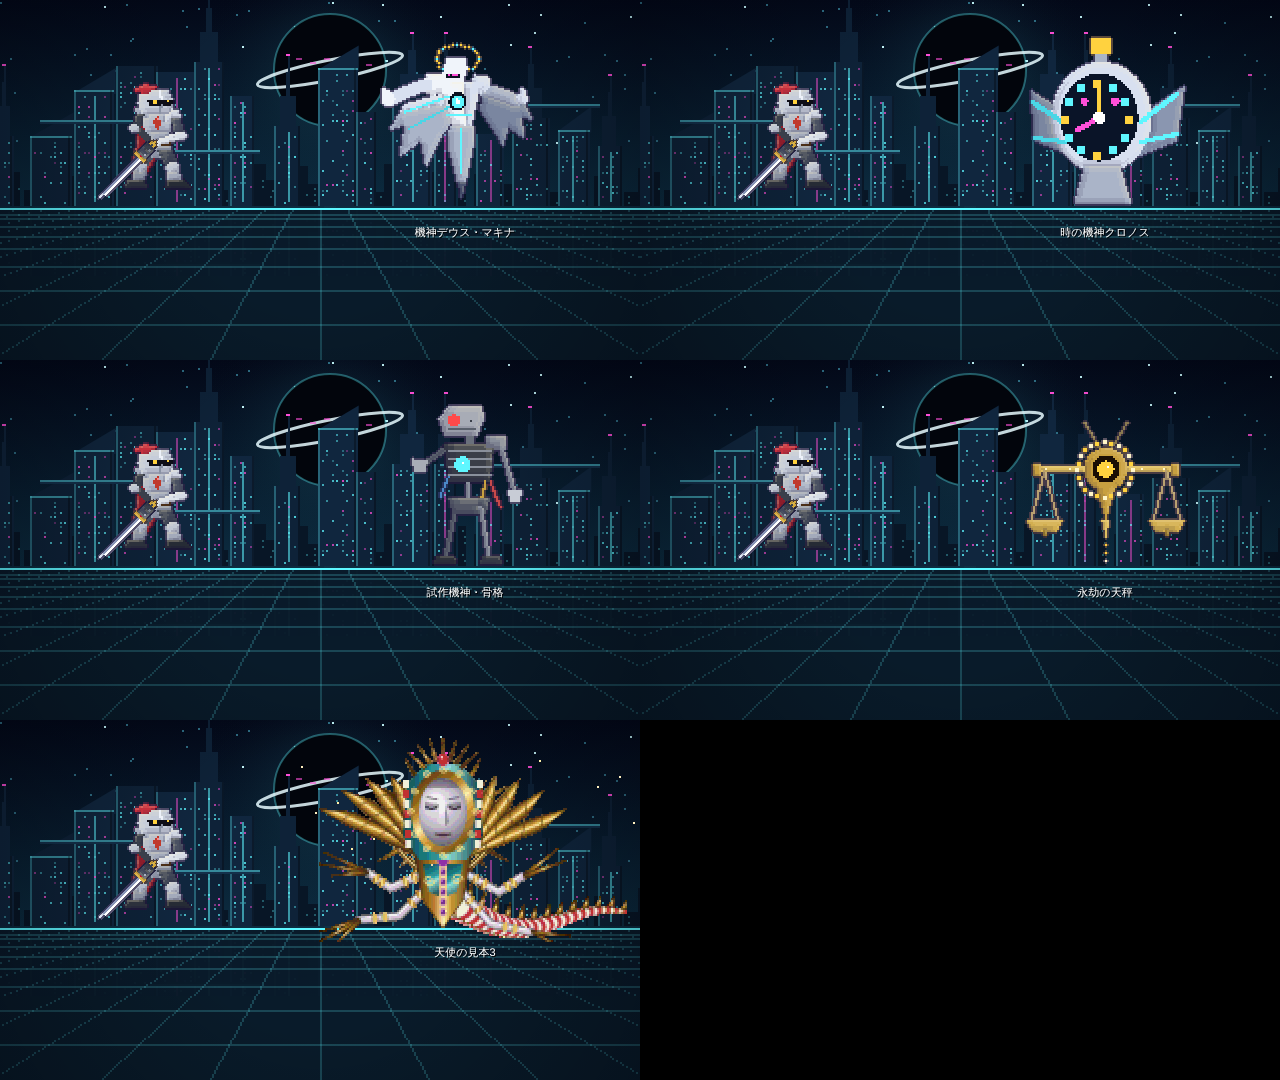
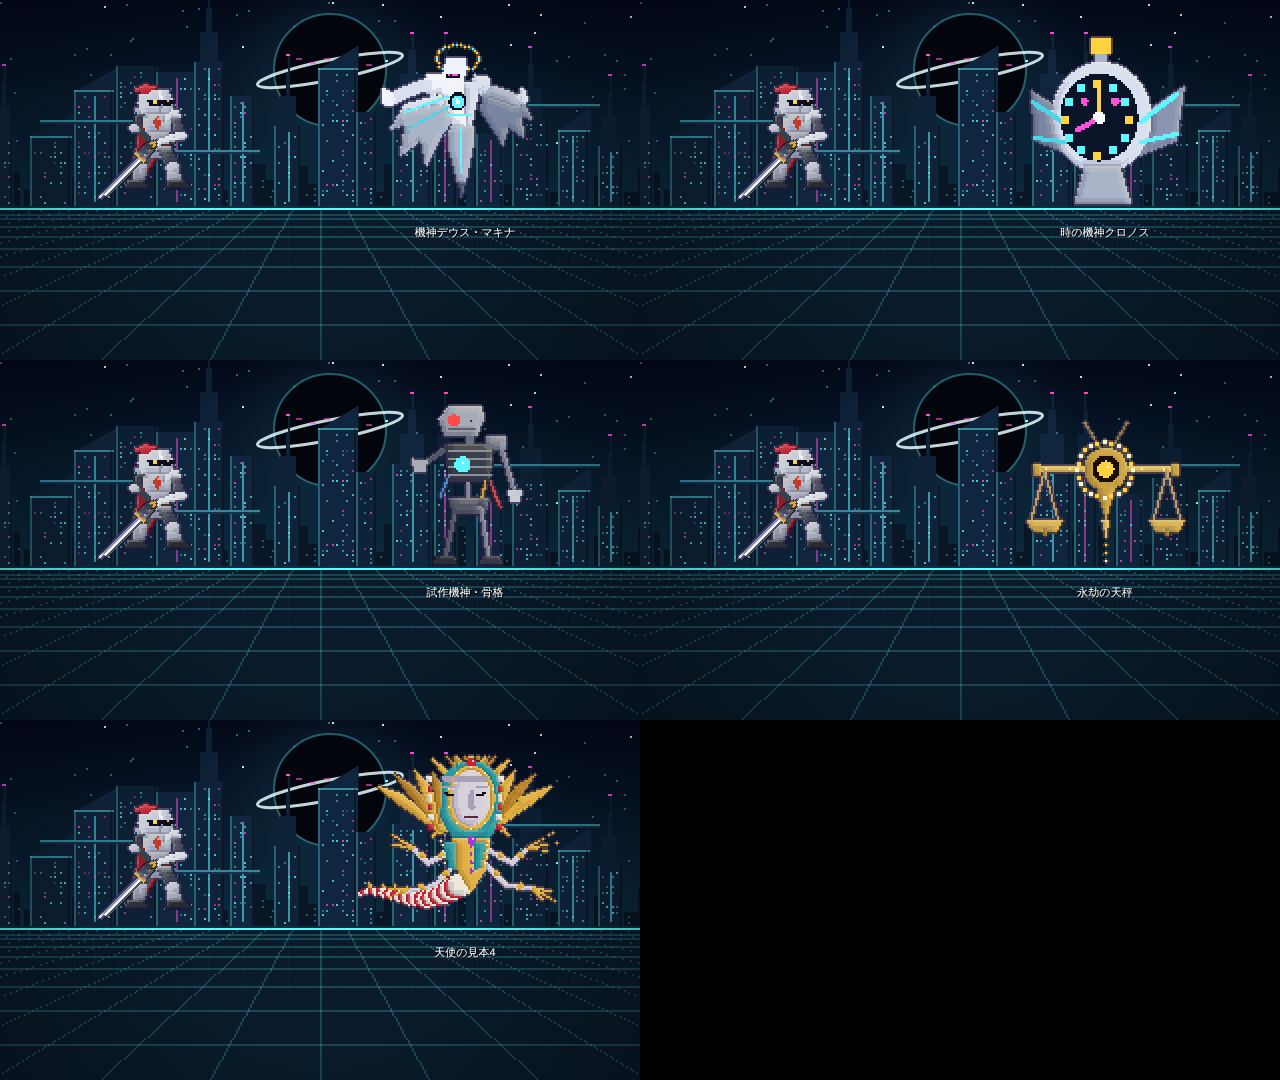
天使のボスの見本4（敵と同じ paint の陰影で描き直し・未追加）
Claude-Session: https://claude.ai/code/session_01WH54oTBmGpABUf9mvatrvJ

Changed region(s): [[0.25, 0.6722, 0.5, 0.8861], [0.25, 0.8556, 0.2812, 0.8861]]

diff --git a/dev/mock/angel4.js b/dev/mock/angel4.js
@@ -1,0 +1,35 @@
+// 天使のボスの見本4（追加しない）：見本3のデザインを、敵と同じ paint（平たい色＋自動の3段陰影と輪郭）で描いたもの
+function angelBoss4(){const GL='#e0b040',GD='#b88428',GH='#fff0a0',TE='#2a9aa0',TD='#1a6a74',SK='#d6d0dc',SKD='#a8a0b4',RD='#c02838',WH='#ece6dc',DK='#140c1c',PU='#a03ac8';
+const im=paint(76,64,({r,p,q,l,t,e,m,sh})=>{const X=36;
+ // とげの光輪（後ろ）
+ for(let k=0;k<16;k++){const a=k/16*6.283,r1=12,r2=k%2?17:21;t([[X+Math.cos(a-.12)*r1,15+Math.sin(a-.12)*r1],[X+Math.cos(a)*r2,15+Math.sin(a)*r2],[X+Math.cos(a+.12)*r1,15+Math.sin(a+.12)*r1]],k%2?GD:GL)}
+ // 金の刃の翼（左右対称）
+ m(()=>{for(let k=0;k<5;k++){const a=-2.55+k*.26,ln=30-k*2.6,ox=X-5,oy=27,ux=Math.cos(a),uy=Math.sin(a),px=-uy,py=ux;t([[ox+px*1.6,oy+py*1.6],[ox+ux*ln*.7+px*2.6,oy+uy*ln*.7+py*2.6],[ox+ux*ln,oy+uy*ln],[ox+ux*ln*.7-px*1.2,oy+uy*ln*.7-py*1.2],[ox-px*1.6,oy-py*1.6]],k%2?GD:GL)}});
+ // 鱗の尾
+ for(let i=24;i>=0;i--){const s=i/24,x=X+4+s*36,y=46+Math.sin(s*5)*3+s*6,rr=3.4*(1-s)+.8;e(x,y,rr+.3,rr,i%2?RD:WH);if(i%3==0&&i<22)t([[x-.6,y-rr],[x+1.2,y-rr-2.4],[x+1,y-rr]],GL)}
+ // 細長い腕4本（肌＋金の輪）と金の爪
+ const arm=(pts,cl)=>{for(let i=1;i<pts.length;i++)l(pts[i-1][0],pts[i-1][1],pts[i][0],pts[i][1],SK,1.6);for(let i=1;i<pts.length;i++){const[a,b]=pts[i-1],[c,d]=pts[i];e((a+c)/2,(b+d)/2,1.2,1.2,GL)}const[x,y]=pts[pts.length-1];for(const[dx,dy]of cl)t([[x,y-.6],[x+dx,y+dy],[x+.6,y+.8]],GL)};
+ arm([[X-6,33],[X-15,38],[X-20,33]],[[-10,-6],[-11,-2],[-8,1]]);
+ arm([[X-5,38],[X-13,46],[X-22,47]],[[-10,2],[-10,6],[-6,7]]);
+ arm([[X+6,33],[X+15,38],[X+20,33]],[[10,-6],[11,-2]]);
+ arm([[X+5,38],[X+13,46],[X+22,48]],[[9,3],[10,-1]]);
+ // 胴：金の胸当て＋琺瑯の板
+ t([[X-7,29],[X+7,29],[X+5,41],[X,49],[X-5,41]],GL);
+ m(()=>t([[X-5.6,31],[X-1,31],[X-1,41],[X-3.6,40]],TE));
+ // 頭巾（琺瑯）＋赤白の縁
+ t([[X-11,22],[X-10,7],[X-5,2],[X+5,2],[X+10,7],[X+11,22],[X+7,29],[X-7,29]],TE);
+ m(()=>{for(let i=0;i<6;i++)r(X-11.4+i*.15,7+i*3.4,1.6,2.4,i%2?RD:WH)});
+ // 金の楕円枠と顔
+ e(X,15,8.6,11.6,GL);e(X,15,7,10,SK);
+ // 冠
+ for(let k=-3;k<=3;k++){const a=-1.57+k*.3;t([[X+Math.cos(a-.1)*7,8+Math.sin(a-.1)*7],[X+Math.cos(a)*13,7+Math.sin(a)*13],[X+Math.cos(a+.1)*7,8+Math.sin(a+.1)*7]],k%2?GD:GL)}
+ sh();
+ // 細部（陰影の後）：顔の彫り、閉じた目、口、宝石、照り
+ t([[X-.6,12],[X+.6,12],[X+1.4,18.4],[X,19.4],[X-1.4,18.4]],SKD);
+ m(()=>{l(X-5,13.4,X-2,14,DK,.5);l(X-5.6,11,X-2,11.2,SKD,.4);t([[X-6.6,7],[X+6.6,7],[X+5.6,9],[X-5.6,9]],SKD)});
+ l(X-2.4,21.6,X+2.4,21.6,'#5a2a3a',.5);
+ for(let i=0;i<4;i++)e(X,32+i*3,.7,.9,PU);e(X,30,1.4,1.6,PU);q(X-.6,29.4,'#f4c8ff');
+ e(X,2.4,1.6,1.6,RD);q(X-.6,1.8,'#ffd0d0');
+ for(let k=0;k<20;k++){const a=k/20*6.283;q(X+Math.cos(a)*8.2,15+Math.sin(a)*11.2,k%2?GH:GL)}
+ m(()=>{for(let k=0;k<5;k++)q(X-6.2+k*.3,30+k*2,GH)})},2.8);
+return flipC(im)}

diff --git a/dev/mock/angel_cmp.js b/dev/mock/angel_cmp.js
@@ -1,6 +1,6 @@
 // 使い方: node mock/angel_cmp.js 出力先.png（第3層のボスと天使の見本3を並べる）
 const {chromium}=require('playwright'),fs=require('fs');(async()=>{const br=await chromium.launch(),pg=await br.newPage({viewport:{width:640,height:360}}),er=[];pg.on('pageerror',e=>er.push(e.message));await pg.route('**/fonts.googleapis.com/**',r=>r.abort());await pg.goto('file://'+__dirname+'/../index.html');await pg.waitForTimeout(400);
-await pg.addScriptTag({path:__dirname+'/angel3.js'});
+await pg.addScriptTag({path:__dirname+'/angel4.js'});
 const d=await pg.evaluate(()=>{const W=640,H=360,ks=['deus','chronos','protoA','scales','*'],cv=document.getElementById('c');draw=()=>{};cv.width=W*2;cv.height=H*3;ctx.setTransform(1,0,0,1,0,0);ctx.imageSmoothingEnabled=false;ctx.fillStyle='#000';ctx.fillRect(0,0,cv.width,cv.height);
-ks.forEach((k,i)=>{ctx.save();ctx.translate((i%2)*W,Math.floor(i/2)*H);ctx.beginPath();ctx.rect(0,0,W,H);ctx.clip();ctx.drawImage(bgbFor(3),0,0,W,H);const pl=SPR.pl||SPR[CH[0].s];ctx.drawImage(pl,90,208-pl.height);const im=k==='*'?angelBoss3():SPR[k],y=k==='*'?208-im.height+14:208-im.height;ctx.drawImage(im,Math.round(465-im.width/2),y);txt(k==='*'?'天使の見本3':(E[k]&&E[k].n||k),465,236,'#fff','center',11);ctx.restore()});return cv.toDataURL('image/png')});
+ks.forEach((k,i)=>{ctx.save();ctx.translate((i%2)*W,Math.floor(i/2)*H);ctx.beginPath();ctx.rect(0,0,W,H);ctx.clip();ctx.drawImage(bgbFor(3),0,0,W,H);const pl=SPR.pl||SPR[CH[0].s];ctx.drawImage(pl,90,208-pl.height);const im=k==='*'?angelBoss4():SPR[k],y=k==='*'?208-im.height+10:208-im.height;ctx.drawImage(im,Math.round(465-im.width/2),y);txt(k==='*'?'天使の見本4':(E[k]&&E[k].n||k),465,236,'#fff','center',11);ctx.restore()});return cv.toDataURL('image/png')});
 fs.writeFileSync(process.argv[2],Buffer.from(d.split(',')[1],'base64'));console.log(er);await br.close()})();
